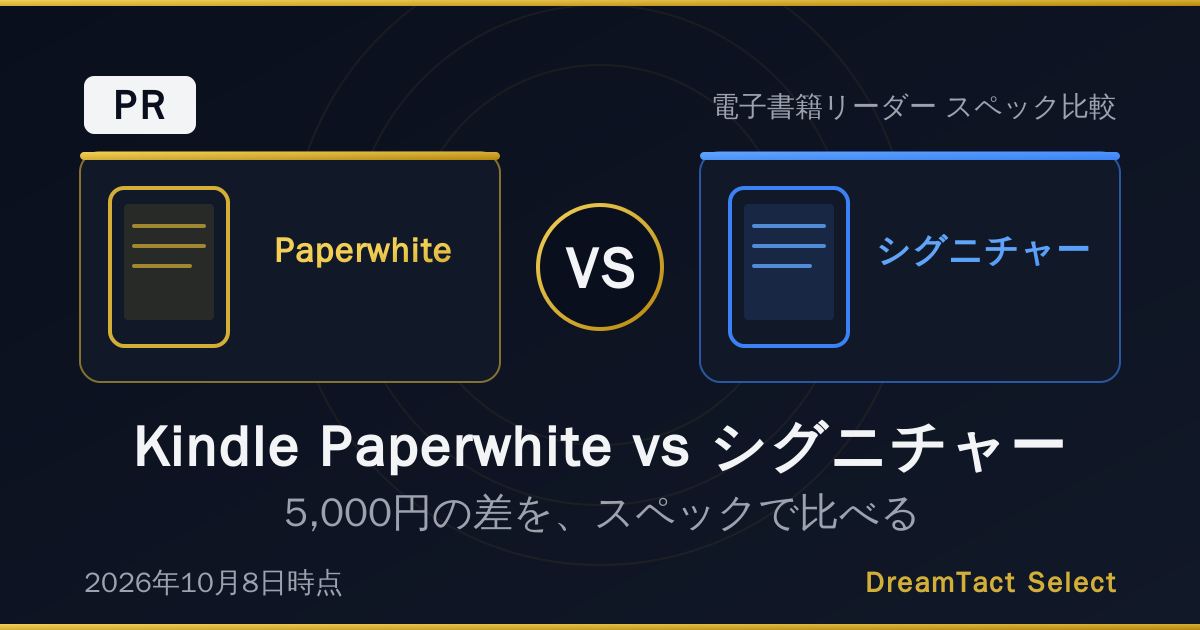
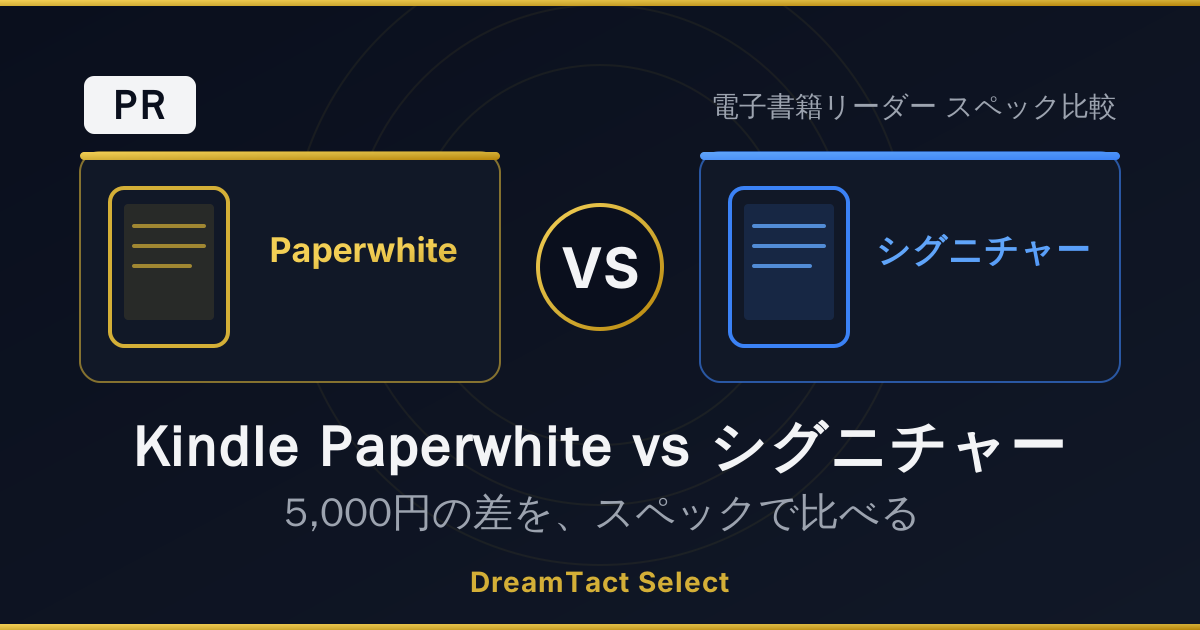
Update Kindle article for 2026-10-13 re-check (in progress: review and eyecatch)
Claude-Session: https://claude.ai/code/session_01XvLytRoPgXT38awoFZshL5

diff --git a/ops/design/2026-10-10-kindle-paperwhite-vs-signature.md b/ops/design/2026-10-10-kindle-paperwhite-vs-signature.md
@@ -56,3 +56,6 @@ status: draft
 - メイン文字56px：ブランド基準（64px以上）より小さいが、1行に収めるための記録済みの逸脱。スマホ縮小時も判読可能で、今回は許容
 - PNGのフォント差（代替ゴシック）：審査上の問題なし。見た目をそろえたい場合のみ再書き出し
 - 記事側メモ「eyecatch未作成」は更新済み（compliance が修正）
+
+## 変更履歴
+- 2026-10-12: 画像から固定日付「2026年10月8日時点」を削除。理由：記事内の価格確認日が 2026-10-08（仕様）と 2026-10-13（価格）の2つになったため、画像の単一日付と食い違う。メイン・サブコピー（「5,000円の差」は不変）は変更なし。日付・価格・セール表現は追加していない。空いた左下の代わりに DreamTact Select を下中央へ移して左右のバランスを調整（他の要素は変更なし）。SVG2本（`public/images/articles/` と `ops/design/`）を更新し、PNG（1200×630）を従来どおり cairosvg ＋ 代替フォント（日本語 WenQuanYi Zen Hei、英字 Inter）で再書き出し、目視で文字化け・欠け無しを確認済み。上の「画像に入っている文字」表の左下行、「確認してほしい点」1、審査結果の日付・公開前条件の記述は、この変更で不要になった（再審査はcomplianceへ）。コミットはしていない。
